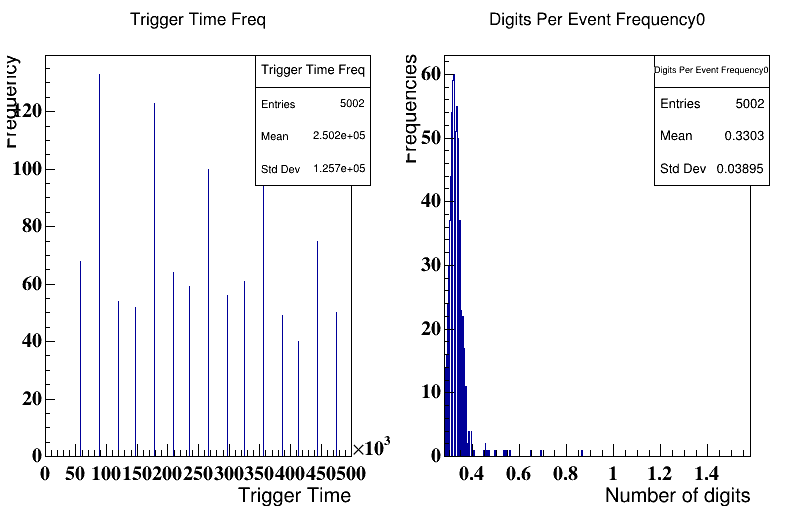
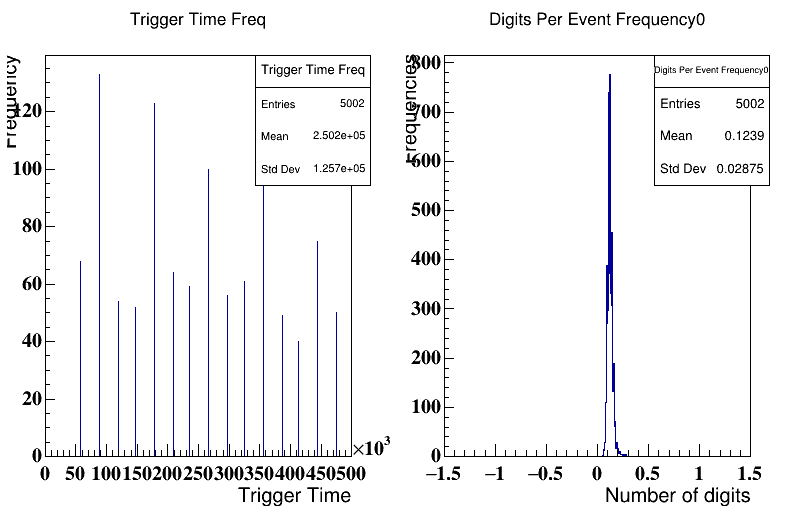
format ok for occupancu per chamber

diff --git a/517623/readClusters.C b/517623/readClusters.C
@@ -211,7 +211,8 @@ void readClusters(int nEvents)
     //strigGraph.reset(new TGraph(, , 160, 0, 159, 144, 0, 143));
 
   const char* digEvtFreqStr = Form("Digits Per Event Frequency%i",i);
-  digPerEvent[i].reset(new TH1F(digEvtFreqStr, digEvtFreqStr, 500, 100*(avgDigits-150.)/(144*160), 100*(avgDigits+150.)/(144*160)));
+  digPerEvent[i].reset(new TH1F(digEvtFreqStr, digEvtFreqStr, 500, 0., 1.));
+  //digPerEvent[i].reset(new TH1F(digEvtFreqStr, digEvtFreqStr, 500, 100*(avgDigits-150.)/(144*160), 100*(avgDigits+150.)/(144*160)));
     digPerEvent[i]->SetXTitle("Number of digits");
     digPerEvent[i]->SetYTitle("Frequencies");
    
@@ -271,7 +272,7 @@ void readClusters(int nEvents)
     double tprev;
     Trigger trigPrev;
 
-    vector<std::array<int, 7>> cnt;
+    std::array<float, 7> avgDig;
 
     const auto rel = 100.0/(144*160);
     for(const auto& trig : mTriggersFromFile){
@@ -313,23 +314,25 @@ void readClusters(int nEvents)
         //cout << "Fill Chamber, trNum " <<  module << " " << trigNum << endl;
         //cout << "Total " << cntCh[module] << endl;
 	cntCh[module]++;
+	avgDig[module]++;
 	
       }
+      for(auto c : cntCh){cout << "  " << c << endl;}
+ 	cout << endl;
 
-      cnt.emplace_back(cntCh);
+
+      for(int ch = 0; ch < 7; ch++){
+        digPerEvent[ch]->Fill(rel*cntCh[ch]);
+      }
+
+
       tprev = time;
       trigPrev = trig;
       trigNum++; 
 
     }
 
-    for(int ch = 0; ch < 7; ch++){
-      for(int trNum = 0; trNum < numTriggers; trNum++){
-        digPerEvent[ch]->Fill(rel*cnt[ch][trNum]);
-        cout << "Num dig in chamber = " << rel*cnt[ch][trNum] << endl;
-      }
-    } 
-    
+
 
     for(const auto& dig : digits){
       Digit::pad2Absolute(dig.getPadID(), &module, &padChX, &padChY);
@@ -445,13 +448,25 @@ void readClusters(int nEvents)
   temp1->SaveAs(Form("TriggerFreq_%i_.png",fname));
 
 
+  for (int iCh = 0; iCh < 7; iCh++) {
+    const auto& pos = posArr[iCh];
+    auto pad5 = static_cast<TPad*>(canvas[4]->cd(pos));
+    digPerEvent[iCh]->Draw();
+  }
+
 
   for (int iCh = 0; iCh < 7; iCh++) {
     const auto& pos = posArr[iCh];
     // ========== Digit MAP =========================
-    auto pad5 = static_cast<TPad*>(canvas[2]->cd(pos));
+
+
+    auto pad5 = static_cast<TPad*>(canvas[4]->cd(pos));
+    digPerEvent[iCh]->Draw();
     //pad5->SetLeftMargin(+.025+pad5->GetLeftMargin());
-    const auto& pTotalDigs = static_cast<float>(100.0f*digMap[iCh]->GetEntries()/digSize);
+
+
+    /*const auto& pTotalDigs = static_cast<float>(100.0f*digMap[iCh]->GetEntries()/digSize);
+    
     digMap[iCh]->SetLabelOffset(digMap[iCh]->GetLabelOffset("y")-0.0015, "y");
     digMap[iCh]->SetTitleOffset(digMap[iCh]->GetTitleOffset("y")-0.0015, "y");
     digMap[iCh]->SetTitleOffset(digMap[iCh]->GetTitleOffset("x")-0.0005, "x");
@@ -460,7 +475,7 @@ void readClusters(int nEvents)
     pad5->SetRightMargin(-.0025+pad5->GetRightMargin());
     digMap[iCh]->SetTitle(Form("Chamber %i Percentage of total = %02.0f", iCh, pTotalDigs));
     digMap[iCh]->SetMarkerStyle(3);
-    digMap[iCh]->Draw("Colz");
+    digMap[iCh]->Draw("Colz"); */
   }
 
 
@@ -477,6 +492,12 @@ void readClusters(int nEvents)
     pad5->SetRightMargin(-.0025+pad5->GetRightMargin());
     digMapAvg[iCh]->SetTitle(Form("Chamber Avg %i Percentage of total = %02.0f", iCh, pTotalDigs));
     digMapAvg[iCh]->Draw("Colz");
+
+    const auto maxPos = digPerEvent[iCh]->GetMaximumBin();
+    digPerEvent[iCh]->SetBins(500, 0., maxPos);
+    digPerEvent[iCh]->Draw();
+
+    cout << "avg "  << avgDig[iCh] << " Num digs " << digPerEvent[iCh]->GetEntries() << endl;
   }
 
 
@@ -489,7 +510,7 @@ void readClusters(int nEvents)
   gStyle->SetStatW(0.3);
   gStyle->SetStatH(0.6); 
     
-
+  /*
   for (int iCh = 0; iCh < 7; iCh++) {
     const auto& pos = posArr[iCh];
 
@@ -498,7 +519,7 @@ void readClusters(int nEvents)
     pad5->SetBottomMargin(.0015+pad5->GetBottomMargin());
     pad5->SetRightMargin(-.0025+pad5->GetRightMargin());
     digPerEvent[iCh]->Draw();
-  }
+  } */
   
   for (int iCh = 0; iCh < 7; iCh++) {
     const auto& pos = posArr[iCh];
